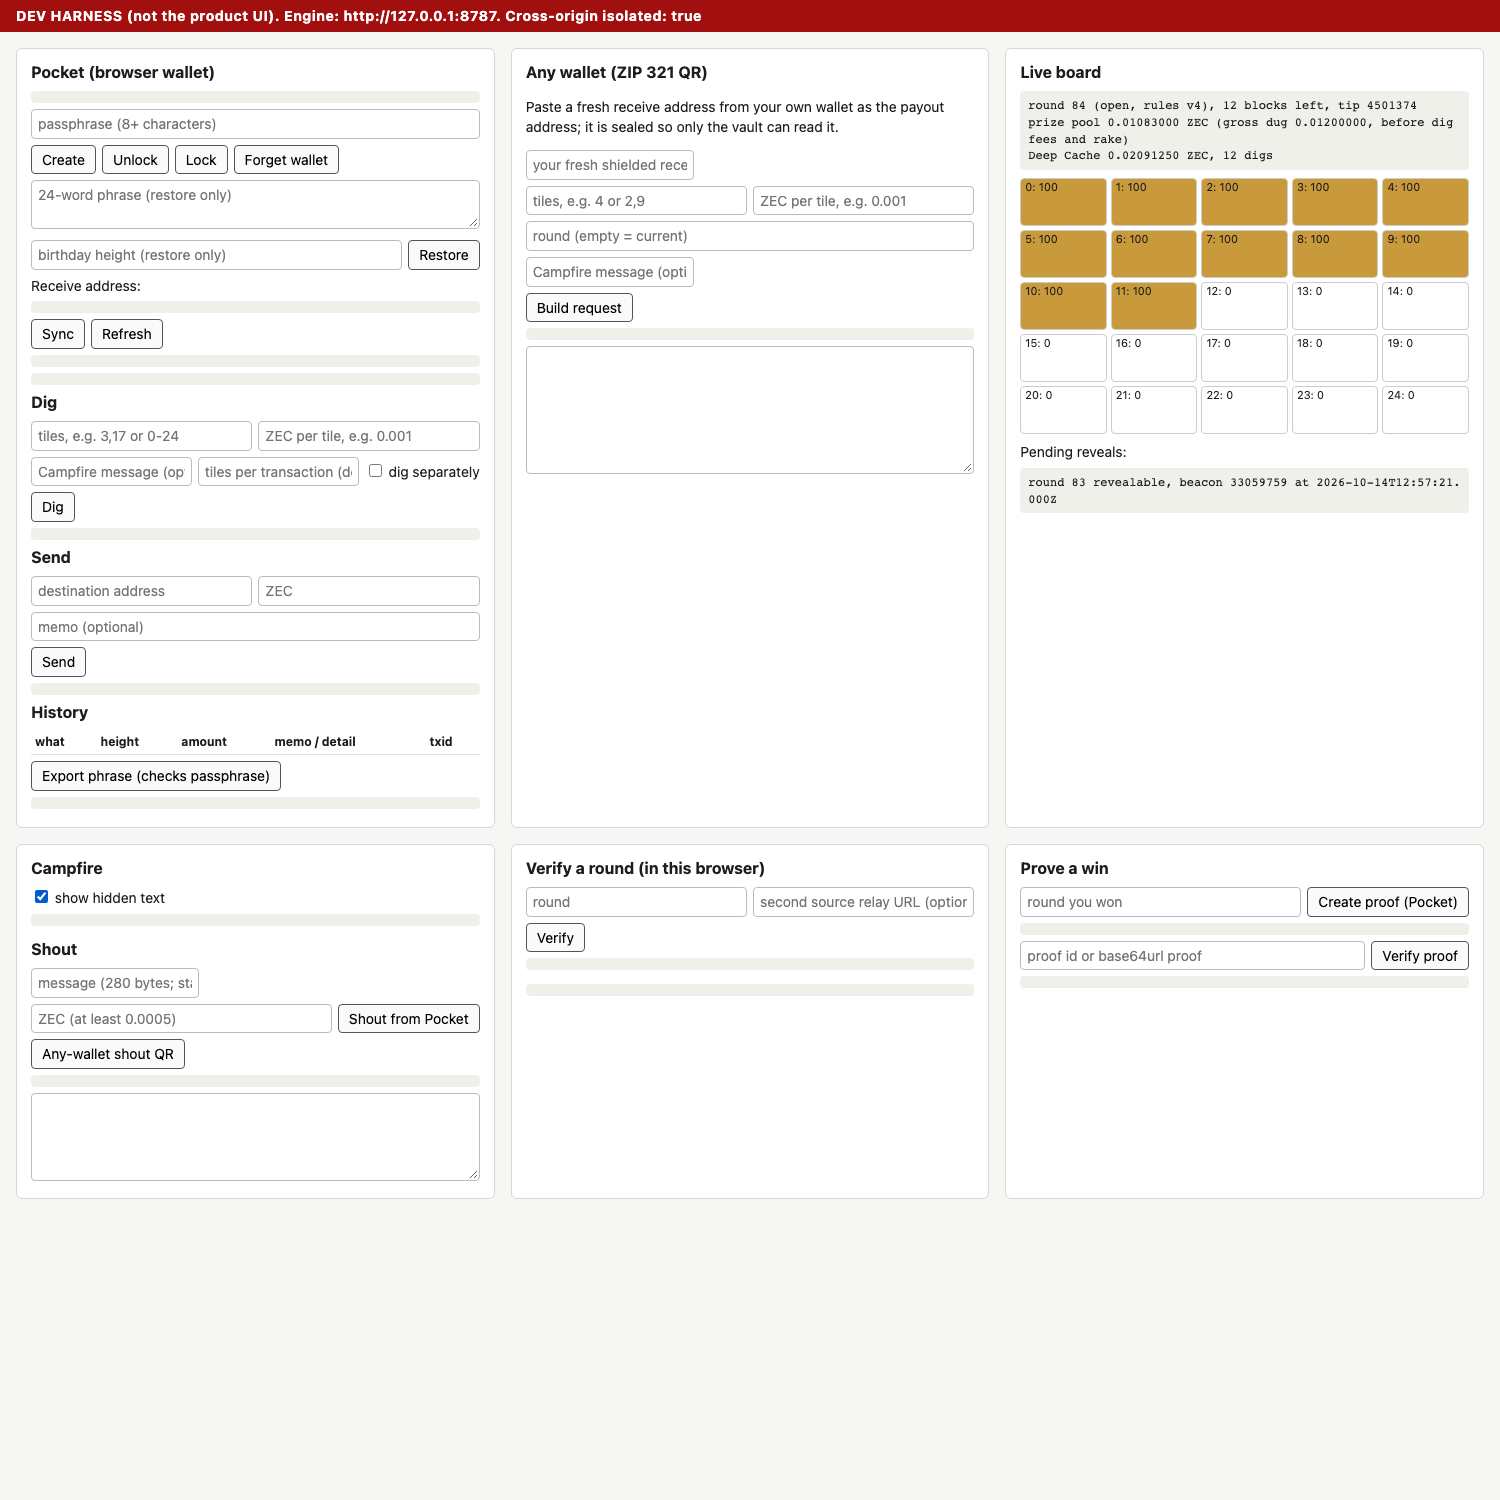
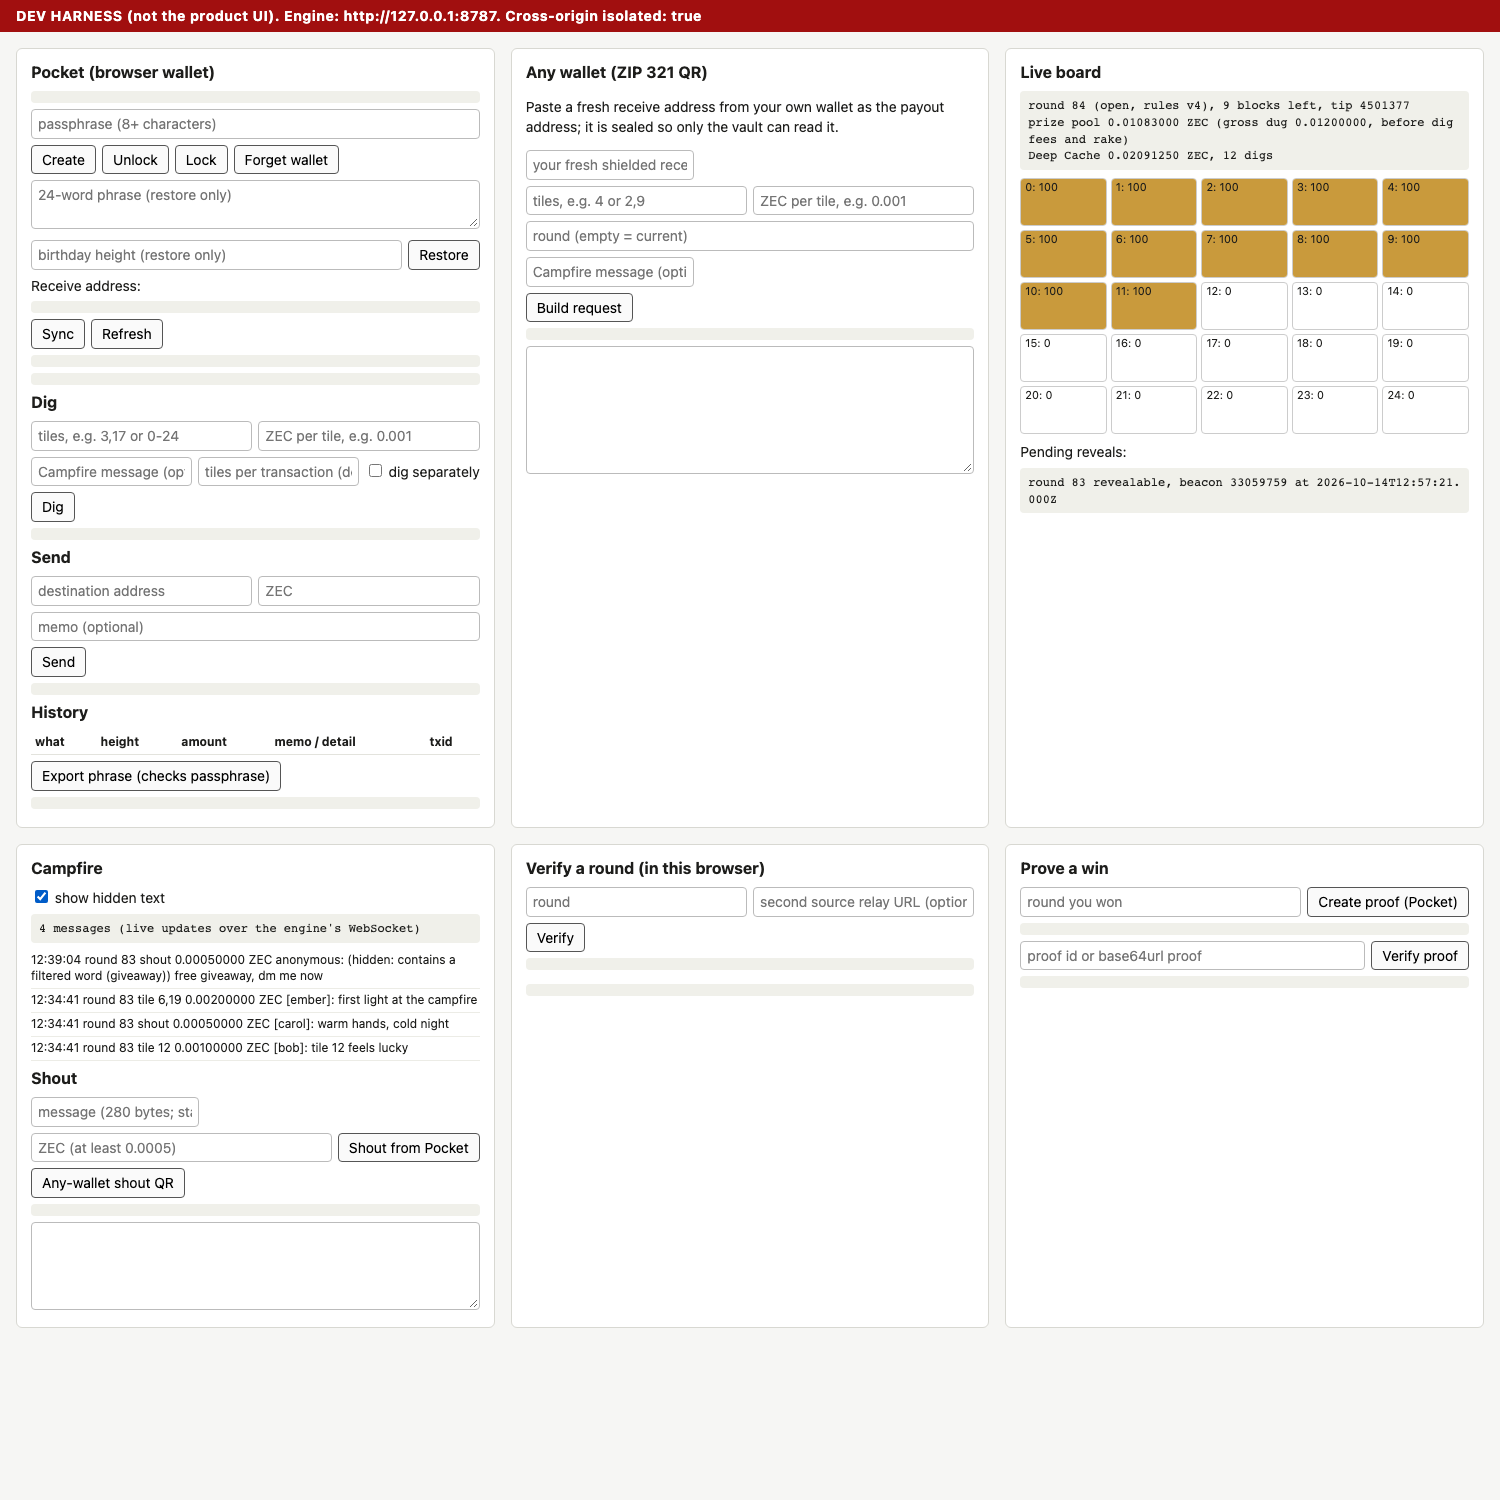
Campfire feed scans down from the chain tip (was from u32::MAX: 10 s per request)

Changed region(s): [[0.0, 0.6133, 0.3067, 0.7973], [0.8893, 0.0613, 0.92, 0.092]]

diff --git a/crates/zeek-engine/src/campfire.rs b/crates/zeek-engine/src/campfire.rs
@@ -221,7 +221,9 @@ pub fn messages(
         return Ok(Vec::new());
     };
     let limit = limit.clamp(1, MAX_LIMIT);
-    let mut end = before.unwrap_or(u32::MAX);
+    // Scan down from the cursor, or from just above the stored tip.
+    let tip_end = db.tip()?.map_or(0, |b| b.height.saturating_add(1));
+    let mut end = before.map_or(tip_end, |b| b.min(tip_end));
     let mut out = Vec::new();
     // Recent texts (newest first) for the duplicate heuristic: a message is
     // a duplicate of a newer one, so the first copy stays visible.
